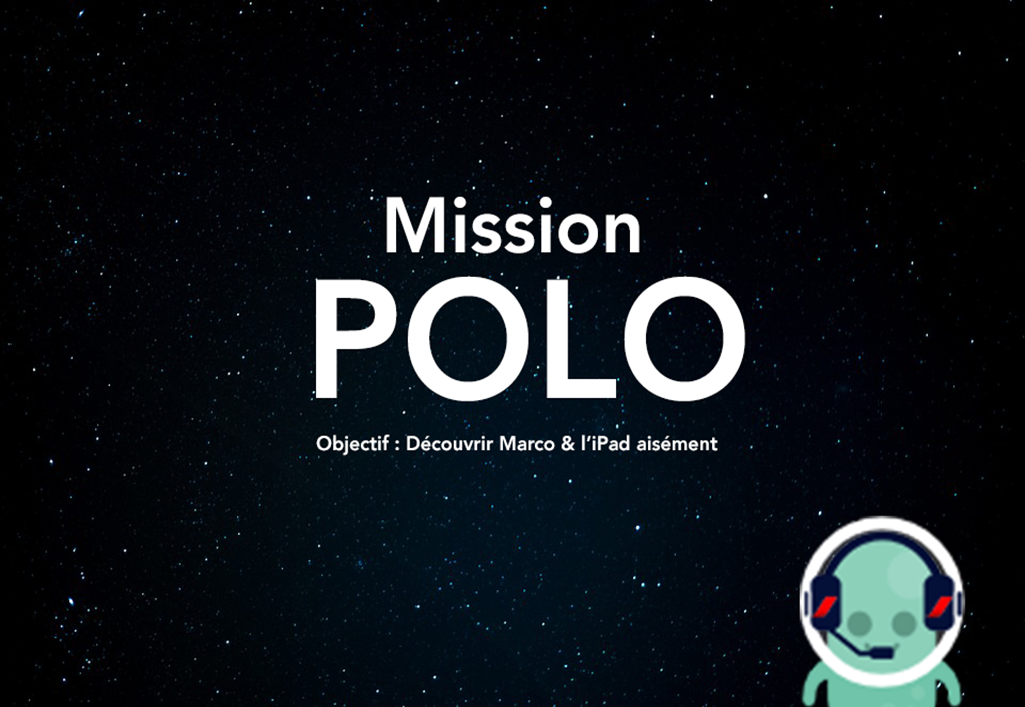
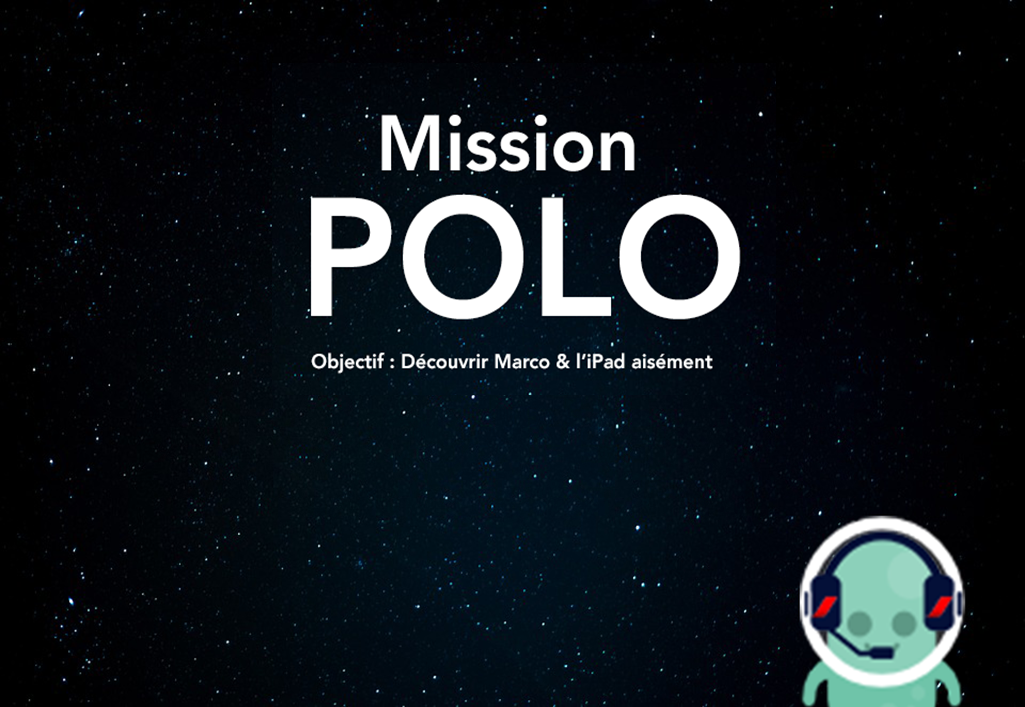
update 1.11 : correctif sur le loading screen

Changed region(s): [[0.281, 0.1556, 0.7493, 0.5912], [0.3122, 0.5912, 0.718, 0.6535]]

diff --git a/js/preloadState.js b/js/preloadState.js
@@ -6,7 +6,7 @@ var preloadState = {
 
 
         this.loadingScreen = this.add.image(0,0, 'loadingScreen');
-        this.loadingBar = this.add.sprite(this.game.world.centerX, this.game.world.centerY+150, 'loadingBar');
+        this.loadingBar = this.add.sprite(this.game.world.centerX, this.game.world.centerY+100, 'loadingBar');
         this.loadingBar.anchor.setTo(0.5);
         this.game.load.setPreloadSprite(this.loadingBar);
 
@@ -18,7 +18,7 @@ var preloadState = {
         game.load.onLoadStart.add(this.loadStart, this);
         game.load.onFileComplete.add(this.fileComplete, this);
         game.load.onLoadComplete.add(this.loadComplete, this);
-        text = game.add.text(GAME_WIDTH/2, GAME_HEIGHT/2+180, 'Le chargement va débuter.', { fill: '#FFFFFF' });
+        text = game.add.text(GAME_WIDTH/2, GAME_HEIGHT/2+140, 'Le chargement va débuter.', { fill: '#FFFFFF' });
         text.anchor.setTo(0.5);
         /*titre = game.add.text(GAME_WIDTH/2, 150, 'POLO');
         titre.anchor.setTo(0.5);
@@ -104,14 +104,14 @@ var preloadState = {
     //	This callback is sent the following parameters:
     fileComplete: function(progress, cacheKey, success, totalLoaded, totalFiles) {
 
-        text.setText("Chargement a " + progress + "% terminé - " + totalLoaded + " sur " + totalFiles);
+        text.setText("Chargement à " + progress + "% terminé - " + totalLoaded + " sur " + totalFiles);
 
     },
 
     loadComplete : function() {
         text.setText("Chargement terminé");
 
-        this.startButton = this.game.add.button(GAME_WIDTH / 2, GAME_HEIGHT / 2 + 260, "playButton", this.playTheGame, this);
+        this.startButton = this.game.add.button(GAME_WIDTH / 2, GAME_HEIGHT / 2 + 220, "playButton", this.playTheGame, this);
         this.startButton.anchor.setTo(0.5);
     }
 
